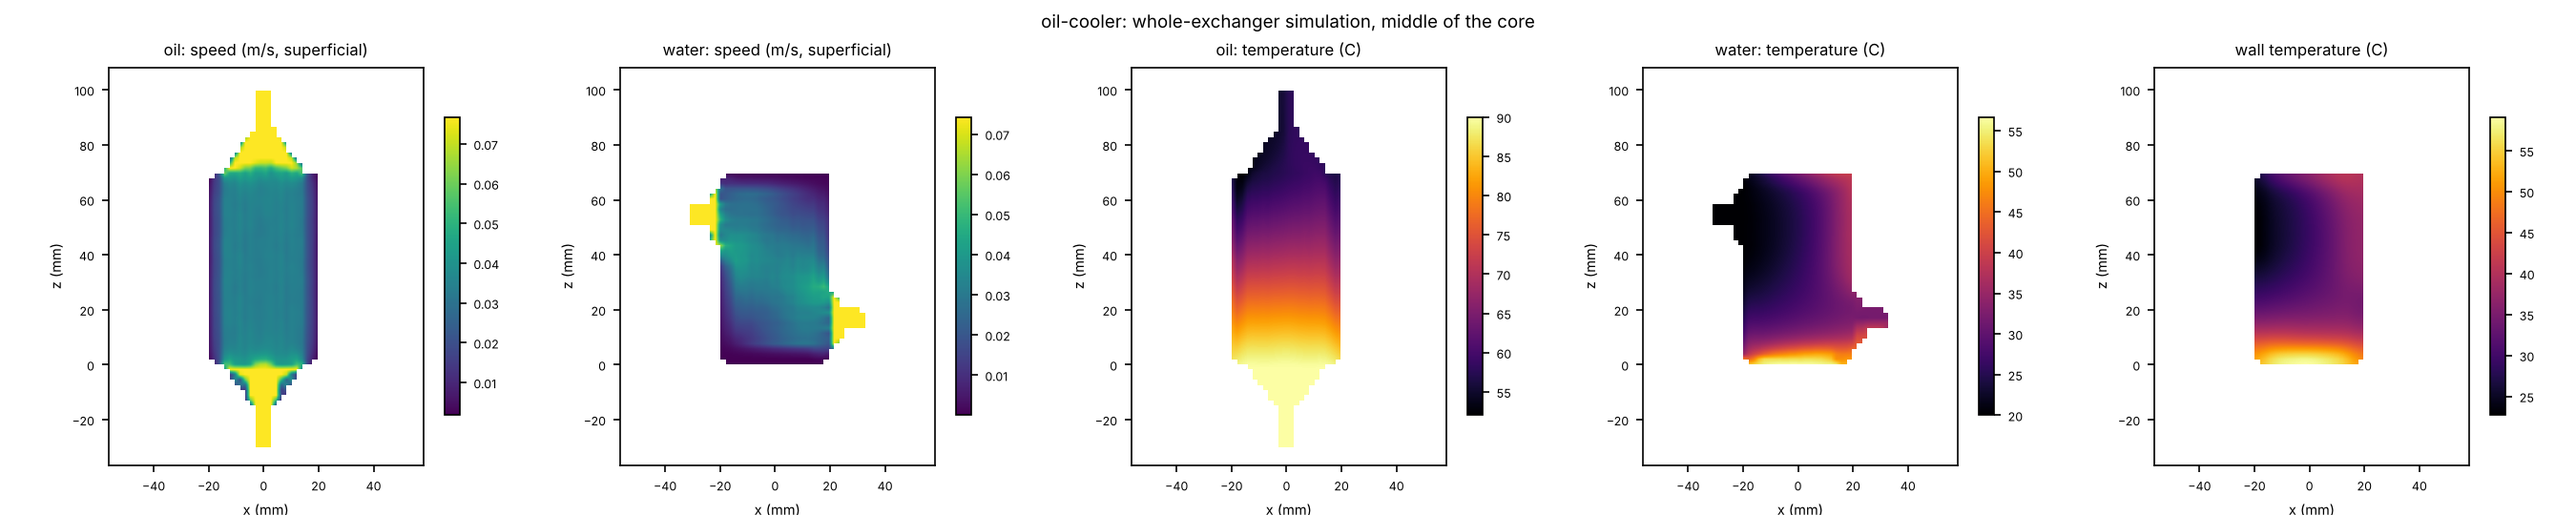
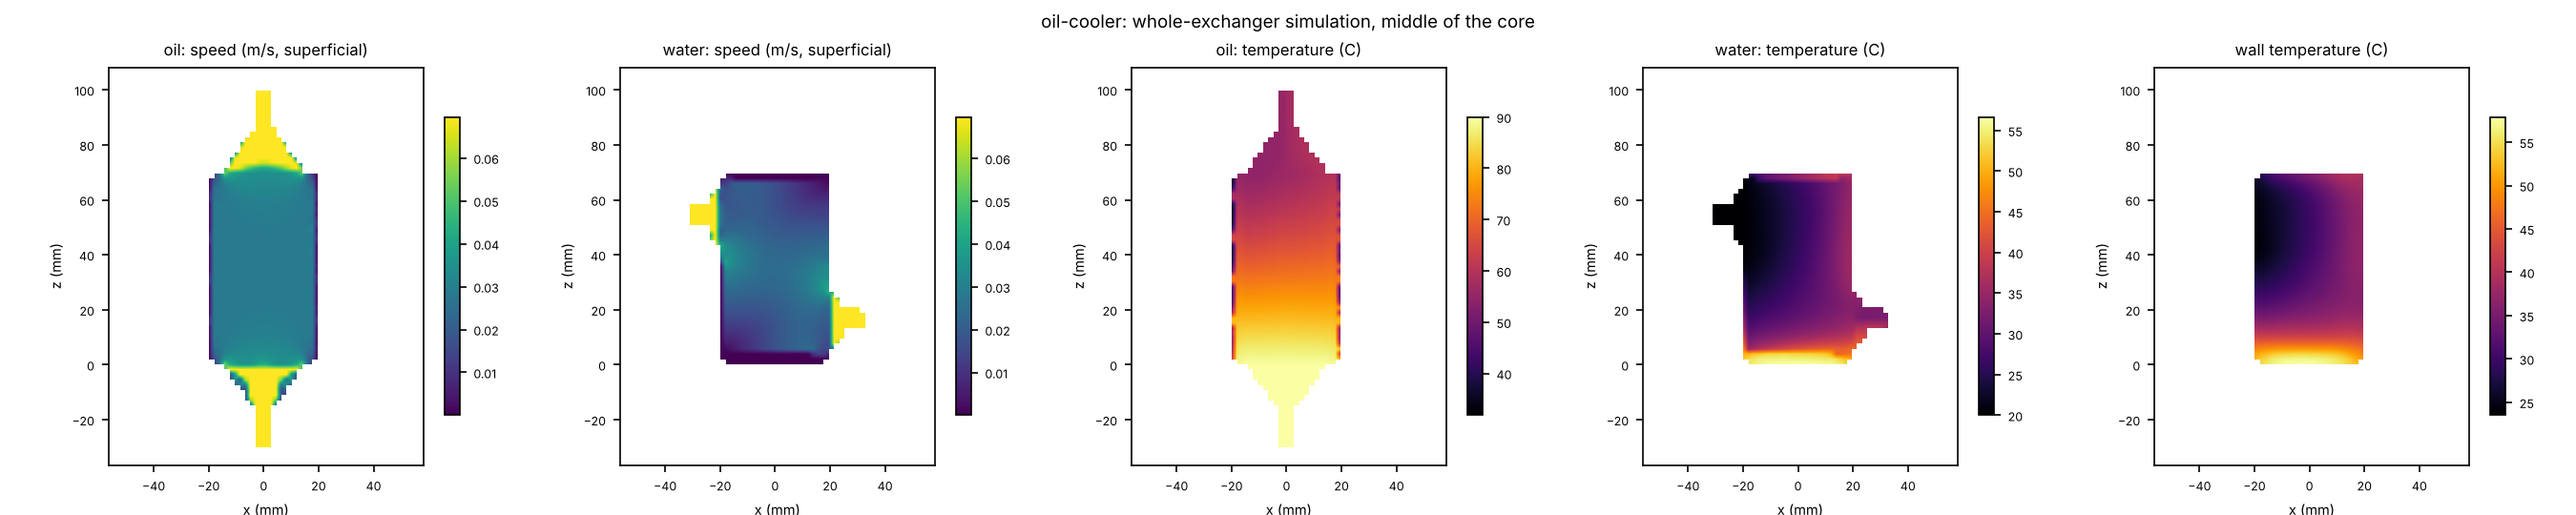
heat-exchanger tutorial: simulated pressure drops after the porous.py update
The tutorial's full-grid check caught the drift: oil 9.60 -> 8.56 kPa,
water 4.59 -> 3.98 kPa, starved water entry 21% -> 14%.

Claude-Session: https://claude.ai/code/session_01HFwANX3h8z1Pa17Q81sH1D

diff --git a/docs/tutorials/heat-exchanger/README.md b/docs/tutorials/heat-exchanger/README.md
@@ -92,12 +92,12 @@ Full grid, as the commands above run:
 
 |  | sizing (step 1) | rating (as designed) | whole-exchanger simulation |
 |---|---|---|---|
-| effectiveness | 0.515 | **0.499** | **0.479** |
+| effectiveness | 0.515 | **0.499** | **0.480** |
 | heat duty | 1.99 kW | **1.92 kW** | **1.85 kW** |
-| oil out | | 55.1 °C | 56.5 °C |
+| oil out | | 55.1 °C | 56.4 °C |
 | water out | | 33.9 °C | 33.3 °C |
-| oil pressure drop | 4.6 kPa | **6.97 kPa** | **9.60 kPa** (8.69 core + 0.91 headers) |
-| water pressure drop | 2.3 kPa | **2.42 kPa** | **4.59 kPa** (3.65 core + 0.94 headers) |
+| oil pressure drop | 4.6 kPa | **6.97 kPa** | **8.56 kPa** (7.53 core + 1.03 headers) |
+| water pressure drop | 2.3 kPa | **2.42 kPa** | **3.98 kPa** (3.05 core + 0.93 headers) |
 
 ![whole-exchanger simulation, a section through the axis](images/oil-cooler-simulation.png)
 
@@ -106,7 +106,7 @@ hot at the bottom and leaves at the top; water comes in at the top left and
 leaves at the bottom right, so the two run against each other. The water
 takes the diagonal: the bottom-left corner, under the oil's hot inlet, barely
 moves, and the water there heats to about 57 °C and stays, carrying little
-heat away. The wall is hottest there too (59 °C), coolest by the water inlet.
+heat away. The wall is hottest there too (about 58 °C), coolest by the water inlet.
 
 How to read it:
 
@@ -121,10 +121,10 @@ How to read it:
   rating measures the built one (porosity, wetted area and channel size on
   the grid, with the plenums' blended mouths), and its oil side comes out
   50% harder to push through. The simulation adds what neither sees: the
-  headers (0.9 kPa a side), and flow that doesn't spread evenly: water
-  enters through one side port, and 21% of the core's water entry face is
-  starved (`simulation.fluids.water.entry`). The oil is at 9.6 kPa, nearly
-  twice the 5 kPa budget. To fix it: rerun step 1 with
+  headers (about 1 kPa a side), and flow that doesn't spread evenly: water
+  enters through one side port, and 14% of the core's water entry face is
+  starved (`simulation.fluids.water.entry`). The oil is at 8.6 kPa, 70%
+  over the 5 kPa budget. To fix it: rerun step 1 with
   `--max-pressure-drop oil=2500` to leave the headers their share, or take
   the 7 mm cell at split 0.5, which gives up 7% of the heat.
 - **The oil runs at Re 6**, below the heat-transfer fits (Re 10-2500); the
